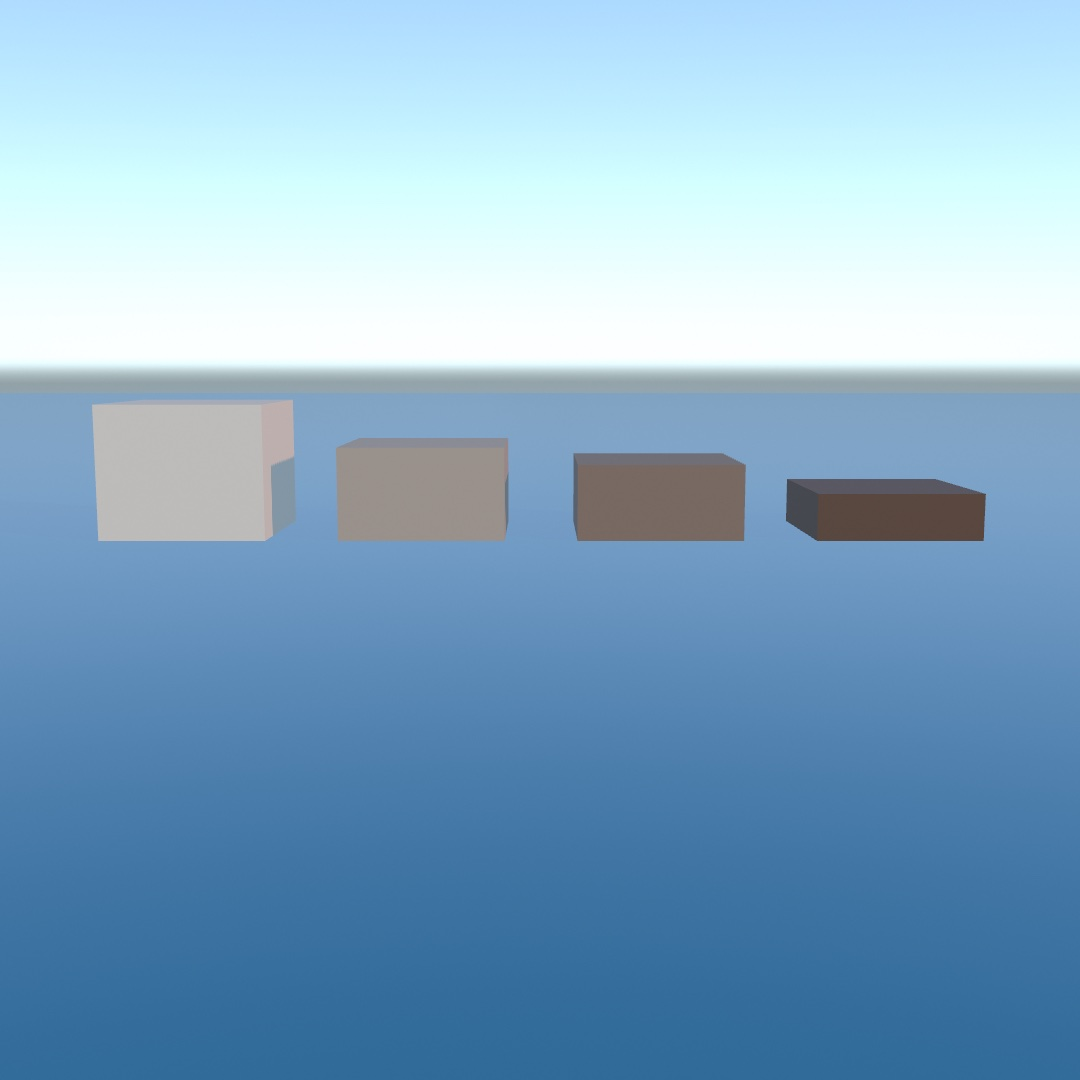
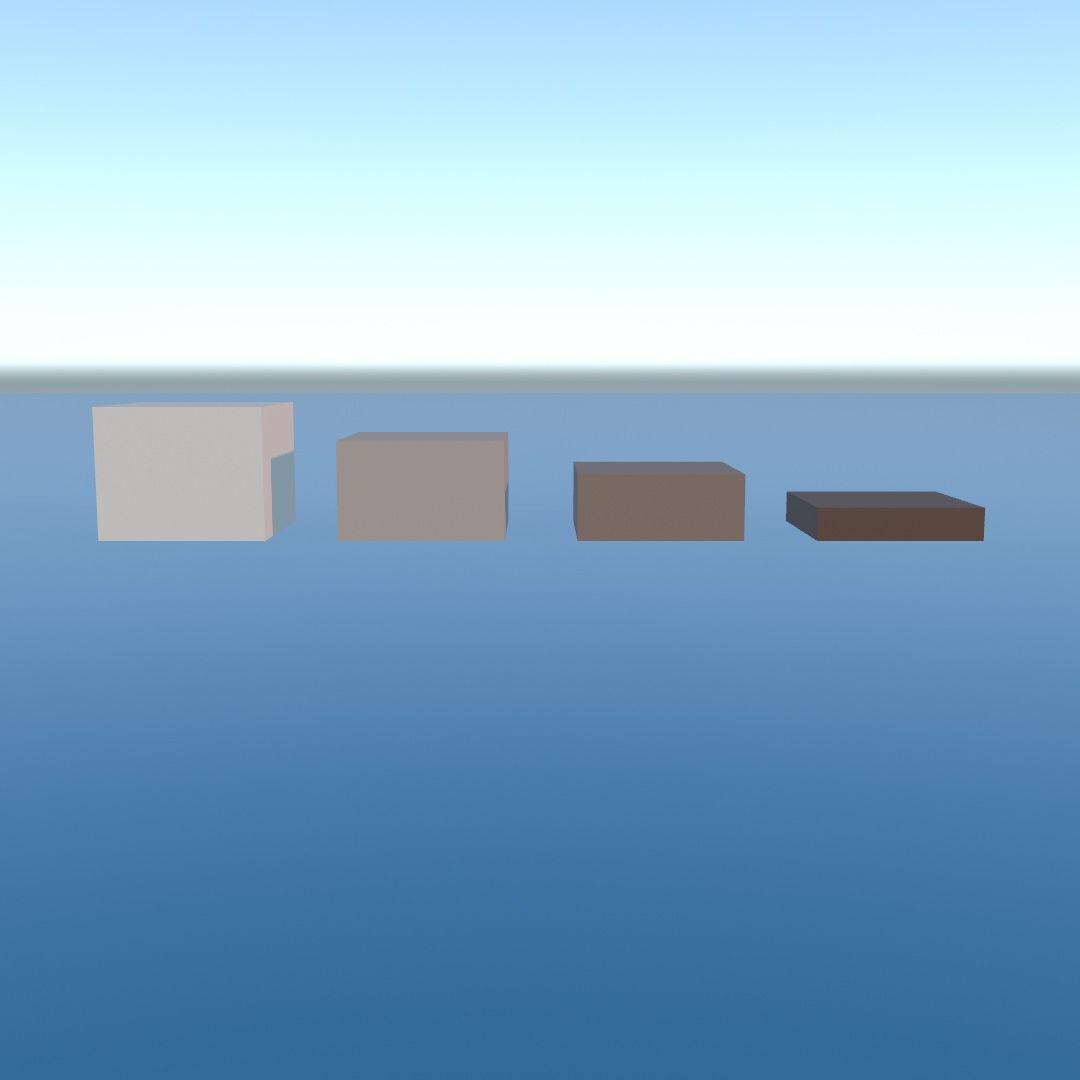
Chapter 30's crates float at the waterlines their densities give. Dropped from 1.4 units up, the four crates were still bobbing at frame 600, since the water's drag is quadratic and a bob under it dies away only as one over time (worked out, the 0.8 crate still swings a fifth of its height at ten se
Claude-Session: https://claude.ai/code/session_01WqLtBAH3GLezrn1E1FY2W7

diff --git a/Guide/Figures/30-WorldsWithWeight/Floating.swift b/Guide/Figures/30-WorldsWithWeight/Floating.swift
@@ -23,8 +23,12 @@ final class Floating: Sketch {
 
         for (index, density) in densities.enumerated() {
             let x = Double(index) * 1.15 - 1.72
+            // Placed at the depth the water will hold it at, its own density
+            // of it under the line, rather than dropped in: a dropped crate
+            // bobs, and the water's drag lets a bob die away only slowly.
+            let y = size * (0.5 - density)
             crates.append(world.addBody(.box(width: size, height: size, depth: size),
-                                        at: Vector3(x, 1.4, 0), density: density,
+                                        at: Vector3(x, y, 0), density: density,
                                         friction: 0.6))
         }
     }
